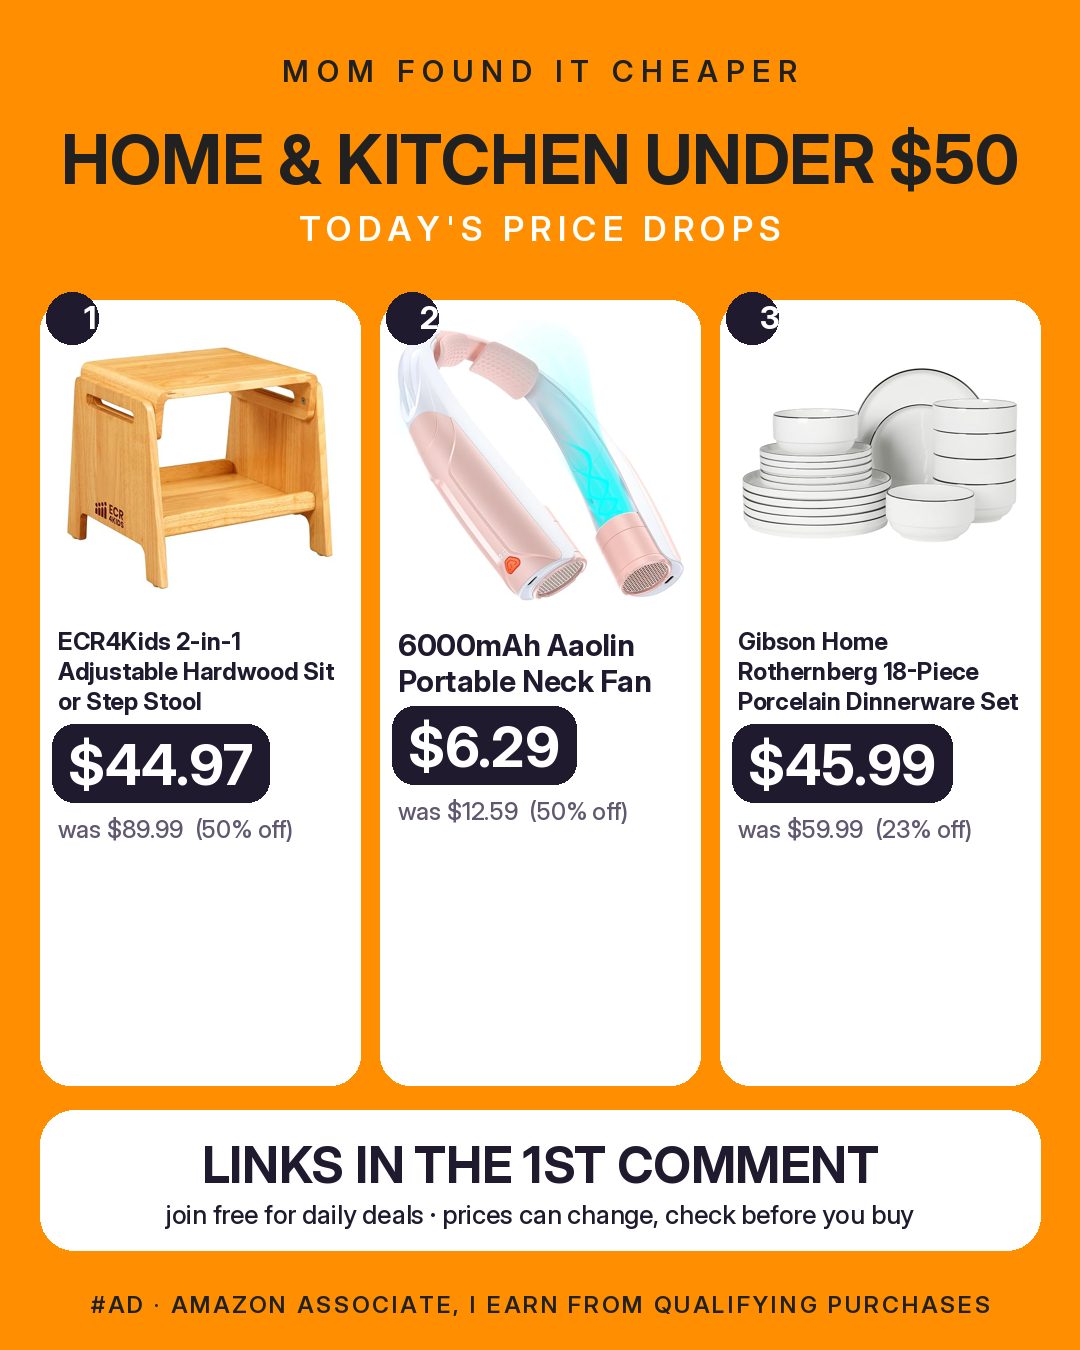
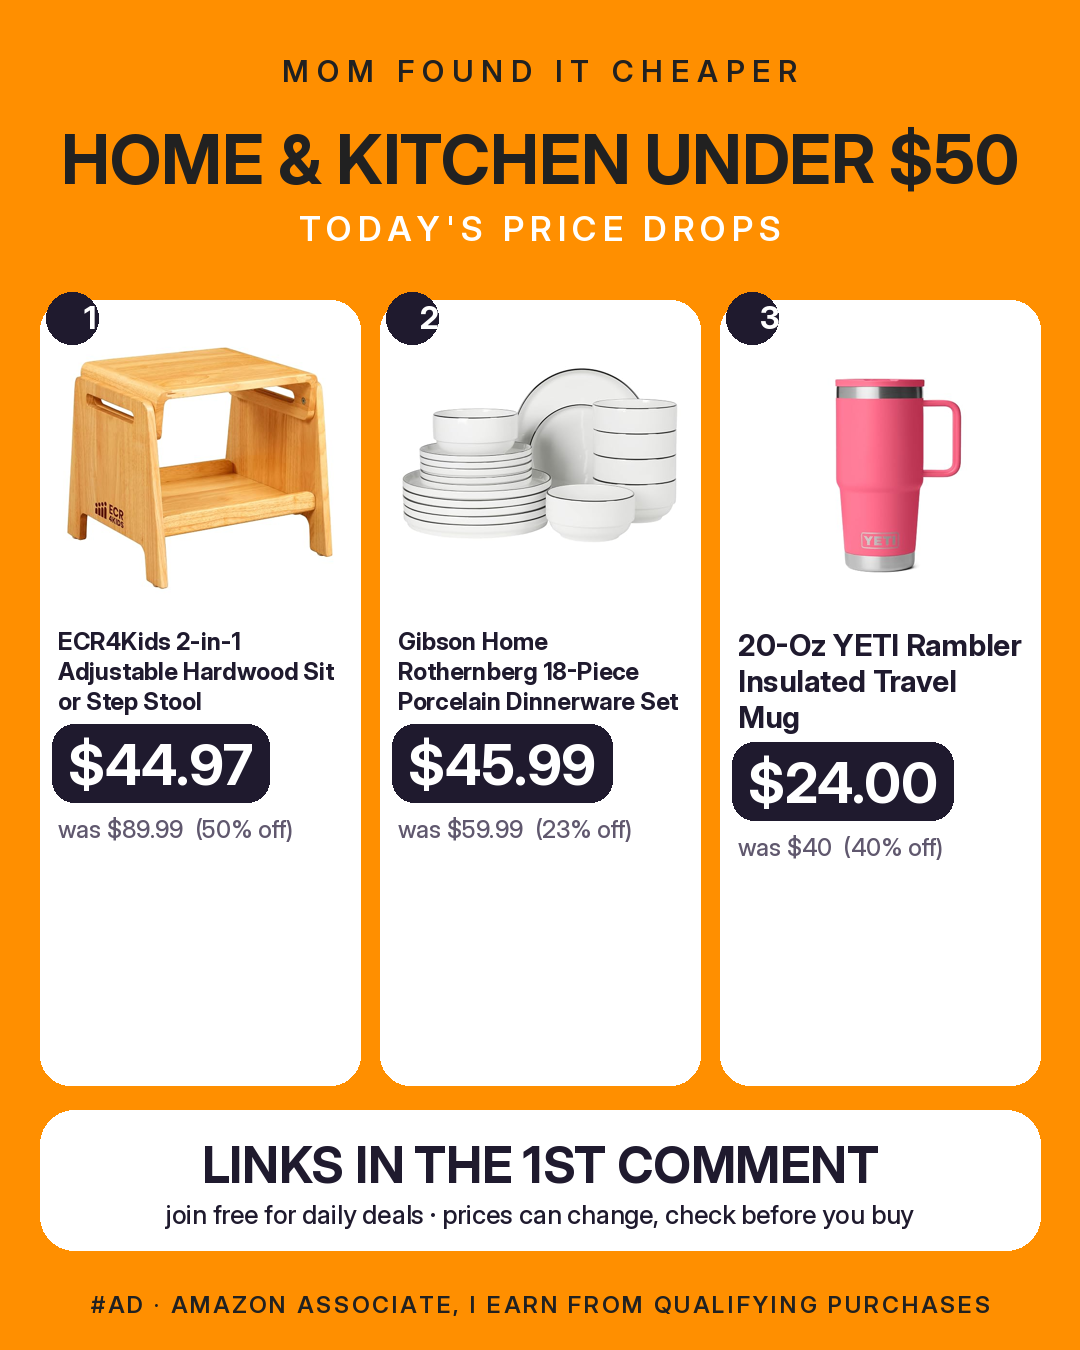
Posts: honor blocklist, no list-price % or camel links in compliant mode, cleaner names, site link on this-or-that
Claude-Session: https://claude.ai/code/session_013VSLL9D9UfzTwCfefZ99QJ

Changed region(s): [[0.3667, 0.2489, 0.6417, 0.6222], [0.6722, 0.4667, 0.9472, 0.6533], [0.6722, 0.2489, 0.9472, 0.4356]]

diff --git a/make_posts.py b/make_posts.py
@@ -752,7 +752,7 @@ QUESTIONS = ["Which one is going in your cart?", "Which would you grab first?", 
 
 def texts(theme, items):
     names = [tidy(short_title(no_price_title(i["title"]))) for i in items]
-    names = [re.sub(r"^\[[^\]]*\]\s*", "", n).rstrip(".,;:- ") for n in names]
+    names = [re.sub(r"^\[[^\]]*\]\s*", "", n).rstrip(".,;:!- ") for n in names]
     st = story(items)
     _b = best_item(items); _off = pct_off(_b)
     _bn = tidy(short_title(no_price_title(_b["title"])))
@@ -764,8 +764,8 @@ def texts(theme, items):
     for n, i in zip(names, items):
         code = clean_code(i)
         tip = f" - code {code}" if code else (" - clip the coupon" if i.get("coupon") and "coupon" in ((META.get(i.get("asin", "")) or {}).get("promo") or "").lower() else "")
-        hist = f"\nPrice history: https://camelcamelcamel.com/product/{i['asin']}" if i.get("asin") else ""
-        _o = pct_off(i)
+        hist = "" if AMAZON_PRICES == "hide" or not i.get("asin") else f"\nPrice history: https://camelcamelcamel.com/product/{i['asin']}"
+        _o = 0 if AMAZON_PRICES == "hide" else pct_off(i)        # no list-price % in compliant mode
         lines.append(f"{'' if _o < 10 else f'{_o}% OFF - '}{n}{tip}\n{link_for(i)}{hist}")
     lines.append("As an Amazon Associate I earn from qualifying purchases.")
     return caption, "\n".join(lines)
@@ -777,7 +777,14 @@ def main():
     for _d in deals:
         _d["category"] = category_of(_d["title"])
         fix_price(_d)
+    try:
+        _BLOCK = set(json.loads(Path("data/blocklist.json").read_text()).get("asins", []))
+    except Exception:
+        _BLOCK = set()
+
     def _ok(d):                                   # QA lessons: real reviews, sane price, no scraped tails
+        if d.get("asin") in _BLOCK:
+            return False                          # owner/QA blocklist (wrong variant etc.)
         pv = price_value(d.get("price", "")) or 0
         if pv > 150:
             return False
@@ -896,7 +903,7 @@ def main():
         make_image_thisorthat(OUT / "post_thisorthat.png", a, b, ROT[(datetime.now(timezone.utc).toordinal() + 2) % len(ROT)])
         na, nb = (" ".join(tidy(short_title(no_price_title(z["title"]))).split(",")[0].split()[:5]) for z in pair)
         cap = (f"THIS or THAT? 🛒\nA: {na}\nB: {nb}\nWhich would you pick? Tell us why - we read every one!\n"
-               f"(AD)(Commission earned) As an Amazon Associate I earn from qualifying purchases.\n\n{HASHTAG_SET}")
+               f"Both checked against Amazon this morning: {SITE}\n#ad As an Amazon Associate I earn from qualifying purchases.\n\n{HASHTAG_SET}")
         cm = f"Shop here (prices and codes can change):\nA: {link_for(a)}\nB: {link_for(b)}\nAs an Amazon Associate I earn from qualifying purchases."
         (OUT / "post_thisorthat.txt").write_text(f"CAPTION:\n{cap}\n\nFIRST COMMENT (paste after posting):\n{cm}\n")
         (WEB / "post_thisorthat.png").write_bytes((OUT / "post_thisorthat.png").read_bytes())

diff --git a/queue/QUEUE.md b/queue/QUEUE.md
@@ -6,7 +6,7 @@ Reply with the numbers to approve, e.g. `post 1, q2; video 3; eng poll`. Nothing
 ### post_4 — Thanksgiving table under $200 (ok)
 ```
 CAPTION:
-✨ Thanksgiving table under $200: 16-Piece Fisher-Price Wooden Pretend Play Fruit Pie Toy Set, Char-Broil The Big Easy Oil-Less Turkey Fryer! and Nuwave Pro Plus 2 Infrared Countertop Air Fryer Oven
+✨ Thanksgiving table under $200: 16-Piece Fisher-Price Wooden Pretend Play Fruit Pie Toy Set, Char-Broil The Big Easy Oil-Less Turkey Fryer and Nuwave Pro Plus 2 Infrared Countertop Air Fryer Oven
 Which one is going in your cart?
 All three, checked against Amazon this morning: https://momfounditcheaper.com/
 #ad As an Amazon Associate I earn from qualifying purchases.
@@ -15,19 +15,19 @@ All three, checked against Amazon this morning: https://momfounditcheaper.com/
 
 FIRST COMMENT (paste after posting):
 Shop here (prices and codes can change):
-36% OFF - 16-Piece Fisher-Price Wooden Pretend Play Fruit Pie Toy Set
+16-Piece Fisher-Price Wooden Pretend Play Fruit Pie Toy Set
 https://www.amazon.com/dp/B0DTLMTQHM?tag=momfounditc08-20
-Price history: https://camelcamelcamel.com/product/B0DTLMTQHM
-40% OFF - Char-Broil The Big Easy Oil-Less Turkey Fryer!
+Char-Broil The Big Easy Oil-Less Turkey Fryer
 https://www.amazon.com/dp/B0DQ1YNRXF?tag=momfounditc08-20
-Price history: https://camelcamelcamel.com/product/B0DQ1YNRXF
-30% OFF - Nuwave
+Nuwave Pro Plus 2 Infrared Countertop Air Fryer Oven
+https://www.amazon.com/dp/B0H31WT38C?tag=momfounditc08-20
+As an Amazon Associate I earn from qualifying purch
 ```
 
 ### post_9 — Home & kitchen under $50 (ok)
 ```
 CAPTION:
-✨ Home & kitchen under $50: ECR4Kids 2-in-1 Adjustable Hardwood Sit or Step Stool, 6000mAh Aaolin Portable Neck Fan and Gibson Home Rothernberg 18-Piece Porcelain Dinnerware Set
+✨ Home & kitchen under $50: ECR4Kids 2-in-1 Adjustable Hardwood Sit or Step Stool, Gibson Home Rothernberg 18-Piece Porcelain Dinnerware Set and 20-Oz YETI Rambler Insulated Travel Mug
 Which would you grab first?
 All three, checked against Amazon this morning: https://momfounditcheaper.com/
 #ad As an Amazon Associate I earn from qualifying purchases.
@@ -36,13 +36,13 @@ All three, checked against Amazon this morning: https://momfounditcheaper.com/
 
 FIRST COMMENT (paste after posting):
 Shop here (prices and codes can change):
-50% OFF - ECR4Kids 2-in-1 Adjustable Hardwood Sit or Step Stool
+ECR4Kids 2-in-1 Adjustable Hardwood Sit or Step Stool
 https://www.amazon.com/dp/B079D381ZR?tag=momfounditc08-20
-Price history: https://camelcamelcamel.com/product/B079D381ZR
-50% OFF - 6000mAh Aaolin Portable Neck Fan
-https://www.amazon.com/dp/B0F5W4W26R?tag=momfounditc08-20
-Price history: https://camelcamelcamel.com/product/B0F5W4W26R
-23% OFF - Gibson Home Rothernberg 18-Piece Porcelain Dinnerwa
+Gibson Home Rothernberg 18-Piece Porcelain Dinnerware Set
+https://www.amazon.com/dp/B0GWRVM27R?tag=momfounditc08-20
+20-Oz YETI Rambler Insulated Travel Mug
+https://www.amazon.com/dp/B0FTZYTM58?tag=momfounditc08-20
+As an Amazon Associate I earn from qualifying purchases.
 ```
 
 ### post_10 — Fashion under $60 (ok)
@@ -57,29 +57,28 @@ All three, checked against Amazon this morning: https://momfounditcheaper.com/
 
 FIRST COMMENT (paste after posting):
 Shop here (prices and codes can change):
-50% OFF - THE NORTH FACE Women's Borealis Backpack
+THE NORTH FACE Women's Borealis Backpack
 https://www.amazon.com/dp/B0F9JDGVDD?tag=momfounditc08-20
-Price history: https://camelcamelcamel.com/product/B0F9JDGVDD
-54% OFF - Dr. Martens Women's Rometty Leather Heeled Chelsea Boots
+Dr. Martens Women's Rometty Leather Heeled Chelsea Boots
 https://www.amazon.com/dp/B078ZKDQ76?tag=momfounditc08-20
-Price history: https://camelcamelcamel.com/product/B078ZKDQ76
-20% OFF - Women’s Joggers
+Women’s Joggers
 https://www.amazon.com/dp/B0DQNMB982?tag=momfounditc08-20
+As an Amazon Associate I earn from qualifying purchases.
 ```
 
 ### post_single — Mom's pick (ok)
 ```
 CAPTION:
-Mom's pick today: 8-Piece Playmobil Junior: Everyday Heroes Toddler Playset.
+Mom's pick today: WORKPRO 12V Cordless Drill Driver & 61-Piece Home Tool Kit.
 Checked against Amazon this morning. Tap for today's price.
-See it here: https://momfounditcheaper.com/#d-7e8a365c48
+See it here: https://momfounditcheaper.com/#d-d9926ce8a7
 #ad As an Amazon Associate I earn from qualifying purchases.
 
 #ad #amazonfinds #dealsforyou #founditcheaper #savemoney
 
 FIRST COMMENT (paste after posting):
 Shop here (prices and codes can change):
-https://www.amazon.com/dp/B0CS8D3WJJ?tag=momfounditc08-20
+https://www.amazon.com/dp/B093Q247VK?tag=momfounditc08-20
 As an Amazon Associate I earn from qualifying purchases.
 ```
 
@@ -90,7 +89,8 @@ THIS or THAT? 🛒
 A: Vaydeer Bluetooth Phone Lock Box
 B: GNCC 2K Security Camera Indoor
 Which would you pick? Tell us why - we read every one!
-(AD)(Commission earned) As an Amazon Associate I earn from qualifying purchases.
+Both checked against Amazon this morning: https://momfounditcheaper.com/
+#ad As an Amazon Associate I earn from qualifying purchases.
 
 #ad #amazonfinds #dealsforyou #founditcheaper #savemoney
 
@@ -117,23 +117,7 @@ https://www.amazon.com/dp/B07P6G1QWX?tag=momfounditc08-20
 As an Amazon Associate I earn from qualifying purchases.
 ```
 
-### post_q2 — Quick deal: 10% OFF (ok)
-```
-CAPTION:
-Price drop on Amazon: WORKPRO 12V Cordless Drill Driver & 61-Piece Home Tool Kit.
-Checked against Amazon this morning. Tap for today's price.
-See it here: https://momfounditcheaper.com/#d-d9926ce8a7
-#ad As an Amazon Associate I earn from qualifying purchases.
-
-#ad #amazonfinds #dealsforyou #founditcheaper #savemoney
-
-FIRST COMMENT (paste after posting):
-Shop here (prices and codes can change):
-https://www.amazon.com/dp/B093Q247VK?tag=momfounditc08-20
-As an Amazon Associate I earn from qualifying purchases.
-```
-
-### post_q4 — Quick deal: 30% OFF (ok)
+### post_q3 — Quick deal: 30% OFF (ok)
 ```
 CAPTION:
 Price drop on Amazon: SwitchBot CO2 Detector.
@@ -146,6 +130,22 @@ See it here: https://momfounditcheaper.com/#d-bfc8abdf2d
 FIRST COMMENT (paste after posting):
 Shop here (prices and codes can change):
 https://www.amazon.com/dp/B0DLN46519?tag=momfounditc08-20
+As an Amazon Associate I earn from qualifying purchases.
+```
+
+### post_q4 — Quick deal: 60% OFF (ok)
+```
+CAPTION:
+Price drop on Amazon: 8-Piece Playmobil Junior: Everyday Heroes Toddler Playset.
+Checked against Amazon this morning. Tap for today's price.
+See it here: https://momfounditcheaper.com/#d-7e8a365c48
+#ad As an Amazon Associate I earn from qualifying purchases.
+
+#ad #amazonfinds #dealsforyou #founditcheaper #savemoney
+
+FIRST COMMENT (paste after posting):
+Shop here (prices and codes can change):
+https://www.amazon.com/dp/B0CS8D3WJJ?tag=momfounditc08-20
 As an Amazon Associate I earn from qualifying purchases.
 ```
 
@@ -213,19 +213,19 @@ https://www.amazon.com/dp/B0DXWVN78D?tag=momfounditc08-20
 As an Amazon Associate I earn from qualifying purchases.
 ```
 
-### post_q10 — Quick deal: 40% OFF (ok)
+### post_q10 — Quick deal: 59% OFF (ok)
 ```
 CAPTION:
-Price drop on Amazon: 20-Oz YETI Rambler Insulated Travel Mug.
+Price drop on Amazon: Persona 5 Royal: Standard Edition.
 Checked against Amazon this morning. Tap for today's price.
-See it here: https://momfounditcheaper.com/#d-ce9d52f3e4
+See it here: https://momfounditcheaper.com/#d-54b9d36c06
 #ad As an Amazon Associate I earn from qualifying purchases.
 
 #ad #amazonfinds #dealsforyou #founditcheaper #savemoney
 
 FIRST COMMENT (paste after posting):
 Shop here (prices and codes can change):
-https://www.amazon.com/dp/B0FTZYTM58?tag=momfounditc08-20
+https://www.amazon.com/dp/B0BF9L5CK8?tag=momfounditc08-20
 As an Amazon Associate I earn from qualifying purchases.
 ```
 

diff --git a/POST_QA.md b/POST_QA.md
@@ -1,66 +1,37 @@
 # Post QA
 
 ## post_1 (Under $10 finds): BLOCKED
-- BLOCKER: caption missing Amazon Associate disclosure
-- BLOCKER: image missing
-- BLOCKER: 3 products but 0 Amazon links in first comment
 - BLOCKER: used/open-box seller (Sold by Amazon Resale and Fulf): Monopoly: The Classic Board Game with St
 ## post_2 (Under $15 finds): BLOCKED
-- BLOCKER: caption missing Amazon Associate disclosure
-- BLOCKER: image missing
-- BLOCKER: 3 products but 0 Amazon links in first comment
 - BLOCKER: title does not match Amazon page title 'LongBay Women's Slippers Boots Winter Warm Fuzzy B': Women’s Slipper Boots Only $14.99 on Ama
 - BLOCKER: claims 45% off without a valid list price: medicube Hyaluronic Moisturizing Cream O
 ## post_3 (Under $25 finds): BLOCKED
-- BLOCKER: caption missing Amazon Associate disclosure
-- BLOCKER: image missing
-- BLOCKER: 3 products but 0 Amazon links in first comment
 - BLOCKER: title does not match Amazon page title 'Klein Tools L1412 5-in-1 Cable Stripping Tool for ': 5-in-1 NM Romex Cable Ripper and Wire St
 ## post_4 (Thanksgiving table under $200): ok
 ## post_5 (Black Friday early under $15): BLOCKED
-- BLOCKER: caption missing Amazon Associate disclosure
-- BLOCKER: image missing
-- BLOCKER: 3 products but 0 Amazon links in first comment
 - BLOCKER: title does not match Amazon page title 'CS CELERSPORT 6 Pairs Ankle Athletic Running Socks': These Bombas-Inspired Socks Are Only $12
 - BLOCKER: claims 48% off without a valid list price: These Bombas-Inspired Socks Are Only $12
 ## post_6 (Tech under $150): BLOCKED
-- BLOCKER: caption missing Amazon Associate disclosure
-- BLOCKER: image missing
-- BLOCKER: 3 products but 0 Amazon links in first comment
 - BLOCKER: used/open-box seller (Sold by Amazon Resale and Fulf): TP-Link Roam 6 AX3000 Dual-Band WiFi 6 P
 - BLOCKER: title does not match Amazon page title '15.6" Digital Calendar Wall Touch Screen Family Pl': OVER $136 Off This Digital Calendar + Fr
 - BLOCKER: used/open-box seller (Sold by Amazon Resale and Fulf): Logitech G309 Lightspeed Wireless Gaming
 ## post_7 (Toy & game under $40): BLOCKED
-- BLOCKER: caption missing Amazon Associate disclosure
-- BLOCKER: image missing
-- BLOCKER: 3 products but 0 Amazon links in first comment
 - BLOCKER: title does not match Amazon page title 'Masters of the Universe 2026 Movie He-Man Power o': Masters of the Universe 2026 Movie He-M
 ## post_8 (Gaming & fun under $25): BLOCKED
-- BLOCKER: caption missing Amazon Associate disclosure
-- BLOCKER: image missing
-- BLOCKER: 3 products but 0 Amazon links in first comment
 - BLOCKER: title does not match Amazon page title 'Mellow Gold': Beck: Mellow Gold (180-gram Vinyl LP) $2
 ## post_9 (Home & kitchen under $50): ok
 ## post_10 (Fashion under $60): ok
 ## post_single (Mom's pick): ok
 ## post_thisorthat (THIS or THAT): ok
 ## post_q1 (Quick deal: 50% OFF): ok
-## post_q2 (Quick deal: 10% OFF): ok
-## post_q3 (Quick deal: 37% OFF): BLOCKED
-- BLOCKER: caption missing Amazon Associate disclosure
-- BLOCKER: image missing
-- BLOCKER: 1 products but 0 Amazon links in first comment
+## post_q2 (Quick deal: 37% OFF): BLOCKED
 - BLOCKER: used/open-box seller (Sold by Amazon Resale and Fulf): monTEK Full Motion TV Wall Mount for 37"
-- WARN: caption never names the product: monTEK Full Motion TV Wall Mount for 37"
-## post_q4 (Quick deal: 30% OFF): ok
+## post_q3 (Quick deal: 30% OFF): ok
+## post_q4 (Quick deal: 60% OFF): ok
 ## post_q5 (Quick deal: 23% OFF): ok
 ## post_q6 (Quick deal: 20% OFF): ok
 ## post_q7 (Quick deal: 54% OFF): ok
 ## post_q8 (Quick deal: 50% OFF): ok
 ## post_q9 (Quick deal: 44% OFF): BLOCKED
-- BLOCKER: caption missing Amazon Associate disclosure
-- BLOCKER: image missing
-- BLOCKER: 1 products but 0 Amazon links in first comment
 - BLOCKER: Amazon page data is 41h old: LEGO Ideas Polaroid Camera Just $44.99 S
-- WARN: caption never names the product: LEGO Ideas Polaroid Camera Just $44.99 S
-## post_q10 (Quick deal: 40% OFF): ok
+## post_q10 (Quick deal: 59% OFF): ok
